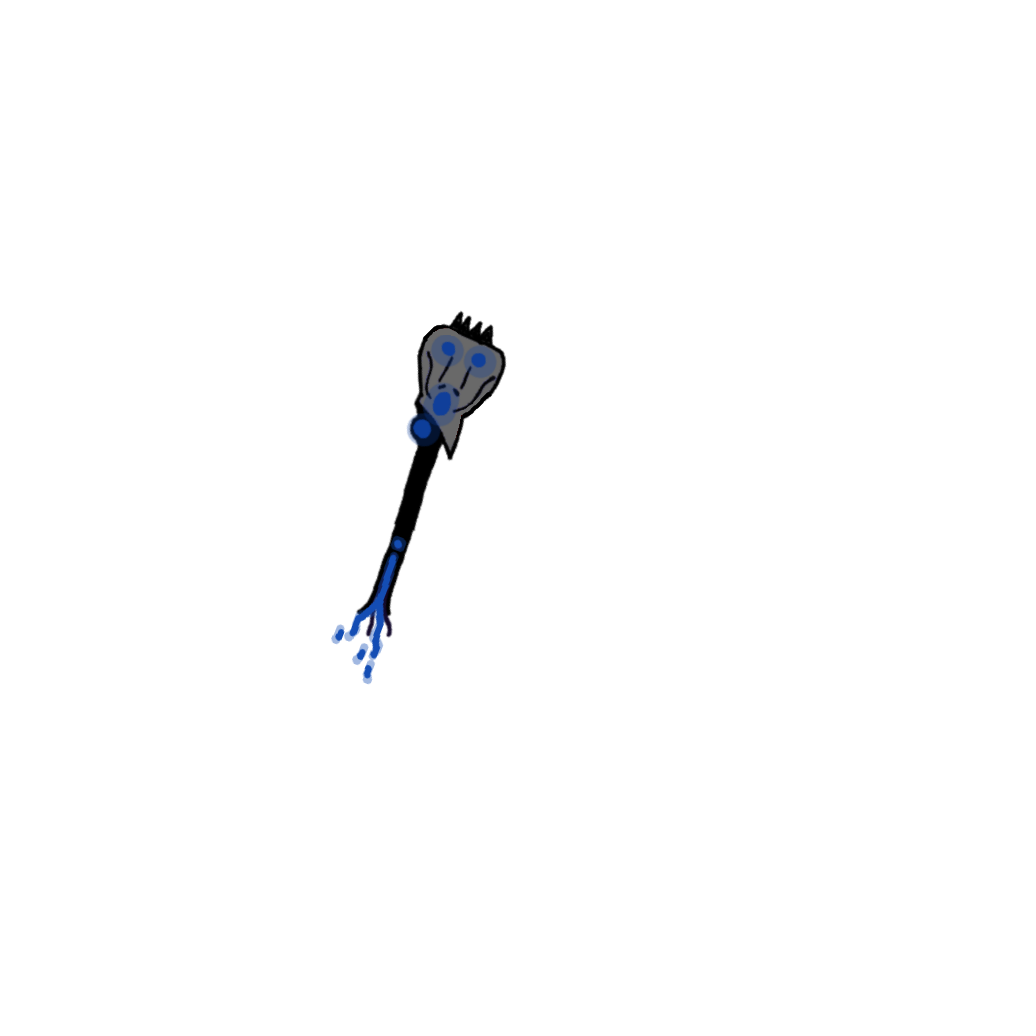
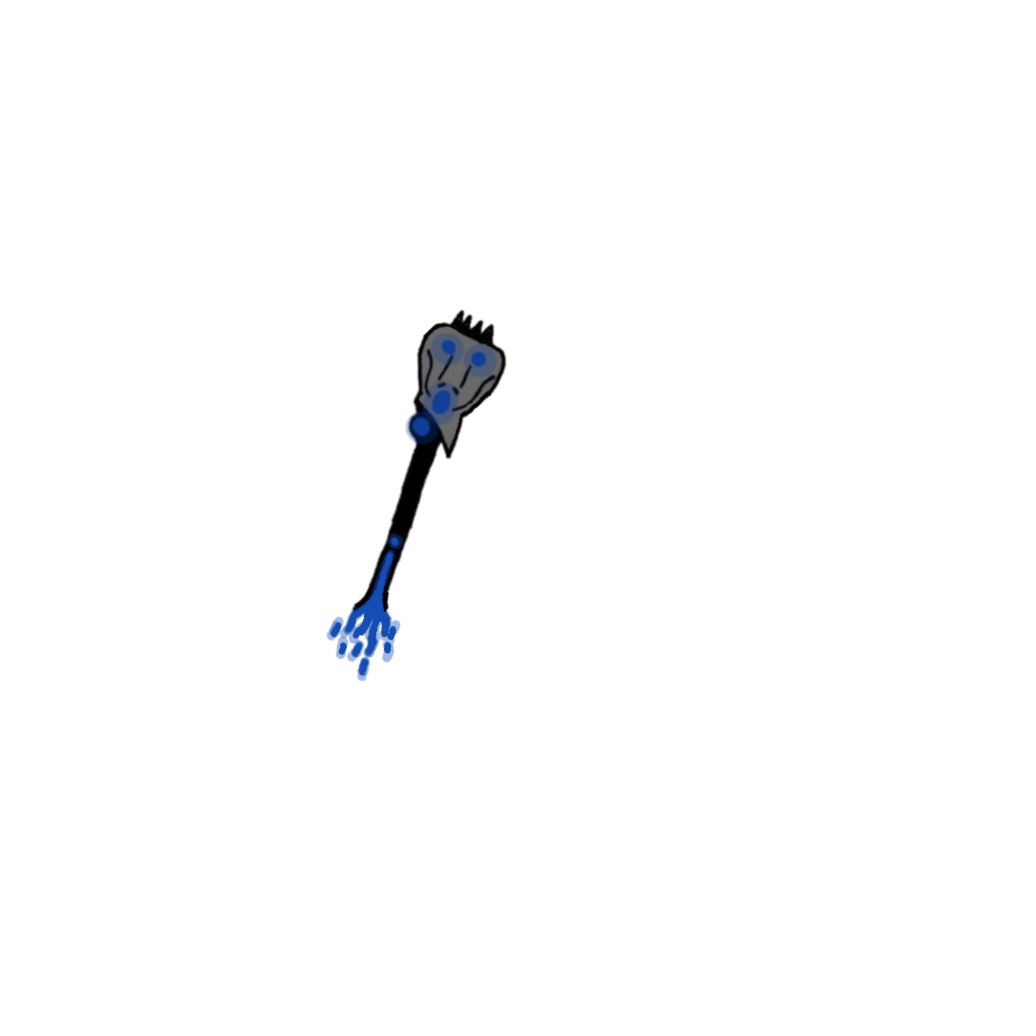
redesign

Changed region(s): [[0.3089, 0.3089, 0.4942, 0.6795]]

diff --git a/lib/monsters/abstract_gargamel.py b/lib/monsters/abstract_gargamel.py
@@ -112,7 +112,8 @@ class GargamelSceptre(GargamelWeapon):
     @classmethod
     def build_class(cls, obj, lamb):
         cls.obj = obj
-        cls.img = cls.tools.set_imgs(cls.env.img_folder + 'weapons/', 'sceptre', cls.dimensions)
+        cls.img_off = cls.tools.set_imgs(cls.env.img_folder + 'weapons/', 'sceptre_off', cls.dimensions)
+        cls.img_on = cls.tools.set_imgs(cls.env.img_folder + 'weapons/', 'sceptre', cls.dimensions)
         cls.invocations = cls.env.mod.bullets.LambsInvocation.build_class(lamb)
         return cls
 
@@ -129,9 +130,25 @@ class GargamelSceptre(GargamelWeapon):
         t.daemon = True
         self.env.bullets.append(invoc)
         t.start()
+        self.spawned = 0
 
     def _perform(self):
         self.env.objects.append(self.obj(self.monster.x, self.monster.y, self))
+
+    def get_img(self):
+        if self.spawned:
+            return self.img_on
+        else:
+            return self.img_off
+
+    def update(self):
+        if self.spawned:
+            self.spawned -= 1
+        if self.spell:
+            self.spell -= 1
+            if not self.spell:
+                self.in_hand = False
+                self._perform()
 
 class GargamelKnife(GargamelWeapon):
     mi = 88

diff --git a/lib/objects/spawn_lamb.py b/lib/objects/spawn_lamb.py
@@ -15,6 +15,10 @@ class   SpawnLamb:
         cls.lamb = lamb
         return cls
 
+    @classmethod
+    def set_weapon(cls, weapon):
+        cls.weapon = weapon
+
     def __init__(self, gargamel):
         self.gargamel = gargamel
         self.x = randint(0, self.env.width - self.dimensions)
@@ -44,4 +48,4 @@ class   SpawnLamb:
                 t.start()
                 self.spawned = True
                 self.time = 16
-
+                self.weapon.spawned = 16

diff --git a/lib/bullets/lambs_invocation.py b/lib/bullets/lambs_invocation.py
@@ -17,6 +17,7 @@ class   LambsInvocation(DefaultBullet):
     def __init__(self, weapon, gargamel):
         self.alive = True
         self.weapon = weapon
+        self.arrival.set_weapon(weapon)
         self.gargamel = gargamel
         self.ultimatum = 1
 
